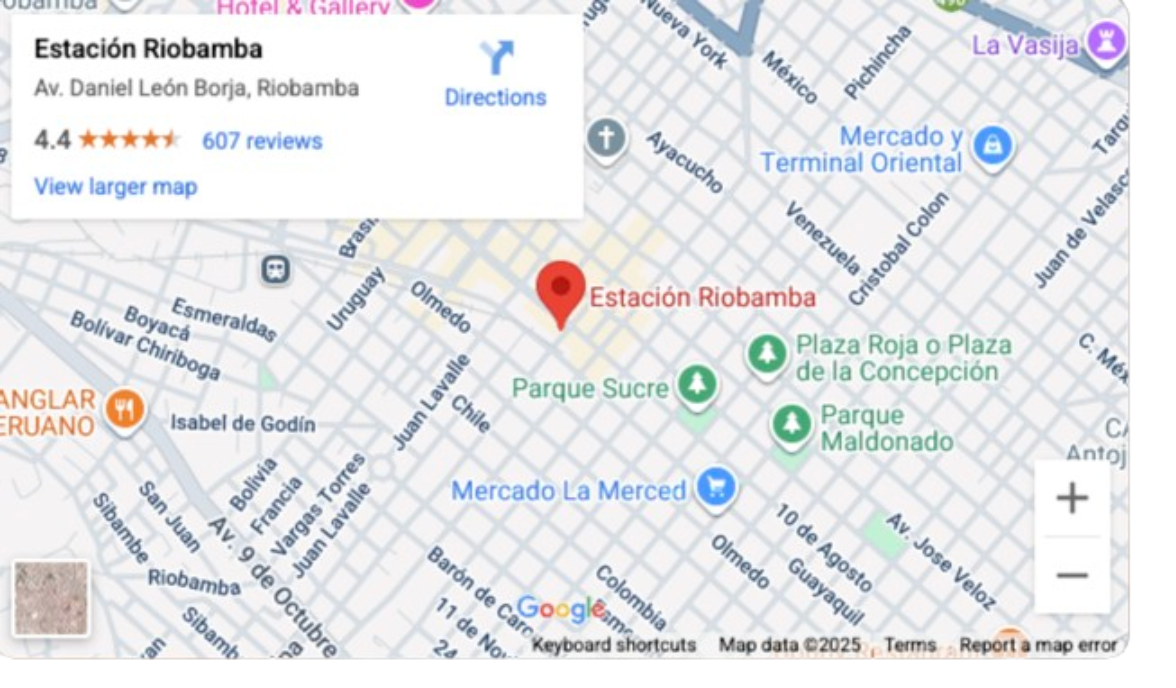
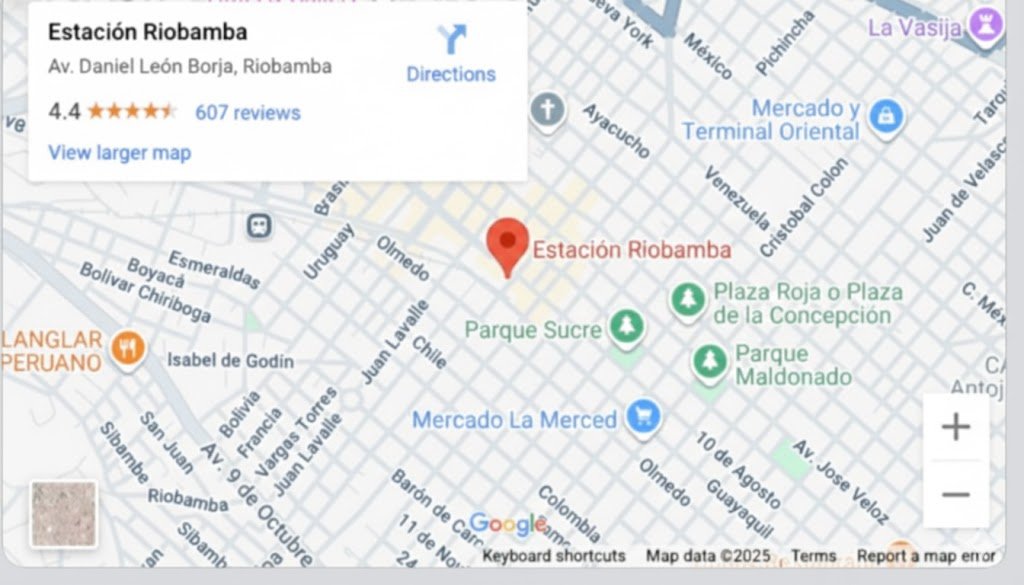
updated
new mvp with google calendar

diff --git a/seven-barber/styles/main.css b/seven-barber/styles/main.css
@@ -1,0 +1,39 @@
+/* ================= SERVICIOS ================= */
+.service-card {
+    padding: 18px;
+    border-radius: 16px;
+    background: #f7f7f7;
+    margin-bottom: 18px;
+    box-shadow: 0 6px 18px rgba(0,0,0,0.06);
+    transition: transform 0.25s ease, box-shadow 0.25s ease;
+}
+
+.service-card:hover {
+    transform: translateY(-4px);
+    box-shadow: 0 14px 30px rgba(0,0,0,0.10);
+}
+
+.service-card h4 {
+    margin: 0;
+    font-size: 18px;
+    font-weight: 700;
+}
+
+.service-card p {
+    margin: 6px 0 10px 0;
+    color: #555;
+    font-size: 14px;
+}
+
+.service-card span {
+    font-weight: 700;
+    font-size: 15px;
+    color: #111;
+}
+
+/* ================= TITULOS ================= */
+.section-title {
+    font-size: 26px;
+    font-weight: 800;
+    margin-bottom: 22px;
+}

diff --git a/seven-barber/app.py b/seven-barber/app.py
@@ -1,72 +1,139 @@
 import streamlit as st
-from datetime import datetime, date
+from datetime import date
 from gc_service import GoogleCalendar
+from streamlit_option_menu import option_menu
 
-# CONFIGURACIÓN
+# ================= CONFIG =================
 CREDENTIALS = "credentials.json"
-CALENDAR_ID = "mariodanielq.p@gmail.com"   
+CALENDAR_ID = "mariodanielq.p@gmail.com"
 gc = GoogleCalendar(CREDENTIALS, CALENDAR_ID)
 
-# SERVICIOS
-servicios_raw = [
-    "Perfil de cejas con guillet y gel de afeitar - 1.00 USD",
-    "Afeitado o Perfilación de barba - 3.00 USD",
-    "Corte de cabello con maquina - 5.00 USD",
-    "Corte de cabello con tijera - 5.00 USD",
-    "Diseño freestyle - 7.00 USD",
-    "VIP | Corte de cabello a máquina, tijera , perfilado de barba más bebida de cortesía- 8.00 USD",
-    "Semi ondulados- 20.00 USD"
-]
-servicios = [servicio.split(" - ")[0] for servicio in servicios_raw]
-
-# Barberos y horas disponibles
 BARBEROS = ['Ariel', 'Josué']
 HORAS_DISPONIBLES = [
-    '09:00', '10:00', '11:00', '12:00',
-    '14:00', '15:00', '16:00', '17:00',
-    '18:00', '19:00', '20:00'
+    '09:00','10:00','11:00','12:00',
+    '14:00','15:00','16:00','17:00',
+    '18:00','19:00','20:00'
 ]
 
-# INTERFAZ DE STREAMLIT
-st.set_page_config(page_title="Reservación", layout="centered")
-st.title("💈 Reservas Barbería Seven")
+servicios = [
+    ("Perfil de cejas", "Guillet + gel de afeitar", "$1.00"),
+    ("Afeitado / Barba", "Perfilación profesional", "$3.00"),
+    ("Corte máquina", "Corte rápido y limpio", "$5.00"),
+    ("Corte tijera", "Trabajo detallado", "$5.00"),
+    ("Diseño freestyle", "Diseño personalizado", "$7.00"),
+    ("VIP", "Corte completo + barba + bebida", "$8.00"),
+    ("Semi ondulados", "Ondulado completo", "$20.00")
+]
 
-# Datos del formulario
-nombre = st.text_input("Nombre del cliente")
-barbero = st.selectbox("Selecciona tu barbero", BARBEROS)
-fecha = st.date_input("Selecciona la fecha", min_value=date.today())
+# ================= PAGE =================
+st.set_page_config(
+    page_title="Barbería Seven",
+    page_icon="💈",
+    layout="centered"
+)
 
-# Consultar disponibilidad de horas
-if fecha:
-    horas_ocupadas = gc.get_events_by_date(fecha, barbero)
-    horas_libres = [h for h in HORAS_DISPONIBLES if h not in horas_ocupadas]
+# ================= CSS =================
+with open("styles/main.css") as f:
+    st.markdown(f"<style>{f.read()}</style>", unsafe_allow_html=True)
 
-    if not horas_libres:
-        st.warning("No hay horas disponibles para este barbero en la fecha seleccionada")
-        st.stop()
+# ================= HEADER =================
+st.image("assets/barberia.jpg")
+st.title("Barbería Seven")
+st.text("Av. Unidad Nacional | Carabobo | Estación")
 
-    hora = st.selectbox("Selecciona la hora disponible", horas_libres)
+# ================= MENU =================
+selected = option_menu(
+    menu_title=None,
+    options=[
+        "Portafolio",
+        "Servicios",
+        "Reservar",
+        "Reseñas",
+        "Detalles"
+    ],
+    icons=["image", "scissors", "calendar", "chat", "geo-alt"],
+    orientation="horizontal",
+)
 
-# Confirmación de reserva
-if st.button("Reservar"):
-    if not nombre:
-        st.error("Por favor, ingresa tu nombre.")
-        st.stop()
+# ================= PORTAFOLIO =================
+if selected == "Portafolio":
+    cols = st.columns(2)
+    cols[0].image("assets/corte-1-josue.jpg", caption="Degradado profesional")
+    cols[1].image("assets/corte-josue-3.jpg", caption="Corte + barba")
 
-    # Validación para no duplicar
-    horas_ocupadas = gc.get_events_by_date(fecha, barbero)
-    if hora in horas_ocupadas:
-        st.error("⛔ Esta hora ya fue reservada. Actualiza la página.")
-        st.stop()
+# ================= SERVICIOS =================
+elif selected == "Servicios":
+    st.subheader("Nuestros servicios")
 
-    start_dt = f"{fecha}T{hora}:00"
-    end_dt = f"{fecha}T{hora}:59"
+    cols = st.columns(2)
+    for i, s in enumerate(servicios):
+        with cols[i % 2]:
+            st.markdown(
+                f"""
+                <div class="service-card">
+                    <h4>✂ {s[0]}</h4>
+                    <p>{s[1]}</p>
+                    <span>{s[2]}</span>
+                </div>
+                """,
+                unsafe_allow_html=True
+            )
 
-    gc.create_event(
-        title=f"Corte - {barbero}",
-        description=f"Cliente: {nombre} | Servicios: {', '.join(servicios)}",
-        start_dt=start_dt,
-        end_dt=end_dt
+# ================= RESERVAR =================
+elif selected == "Reservar":
+    st.subheader("Reserva tu cita")
+
+    nombre = st.text_input("Nombre del cliente")
+    barbero = st.selectbox("Selecciona tu barbero", BARBEROS)
+    fecha = st.date_input("Selecciona la fecha", min_value=date.today())
+
+    if fecha:
+        horas_ocupadas = gc.get_events_by_date(fecha, barbero)
+        horas_libres = [h for h in HORAS_DISPONIBLES if h not in horas_ocupadas]
+
+        if horas_libres:
+            hora = st.selectbox("Selecciona la hora", horas_libres)
+        else:
+            st.warning("No hay horas disponibles")
+            st.stop()
+
+    if st.button("Reservar"):
+        if not nombre:
+            st.error("Ingresa tu nombre")
+            st.stop()
+
+        start_dt = f"{fecha}T{hora}:00"
+        end_dt = f"{fecha}T{hora}:59"
+
+        gc.create_event(
+            title=f"Corte - {barbero}",
+            description=f"Cliente: {nombre}",
+            start_dt=start_dt,
+            end_dt=end_dt
+        )
+
+        st.success(f"✅ Reserva confirmada para {nombre} con {barbero} a las {hora}")
+
+# ================= RESEÑAS =================
+elif selected == "Reseñas":
+    st.subheader("Opiniones de clientes")
+    st.write("⭐⭐⭐⭐⭐ Excelente servicio")
+    st.write("⭐⭐⭐⭐⭐ Cortes de calidad")
+    st.write("⭐⭐⭐⭐⭐ Muy recomendado")
+
+# ================= DETALLES =================
+elif selected == "Detalles":
+    st.image("assets/map.jpg")
+    st.markdown(
+        "[📍 Ver ubicación en Google Maps](https://www.google.com/maps)"
+        "[Desarrollado Monkey Computer &2025](https://www.google.com/maps)"
     )
 
-    st.success(f"✅ Reserva confirmada para {nombre} con {barbero} a las {hora}")
+    st.subheader("Barberos")
+    col1, col2 = st.columns(2)
+    col1.image("assets/barber1.png", caption="Ariel")
+    col2.image("assets/barber2.png", caption="Josué")
+
+    st.subheader("Horario y contacto")
+    st.write("🕘 Lunes a Domingo: 09:00 – 20:00")
+    st.write("📞 654 789 123")
